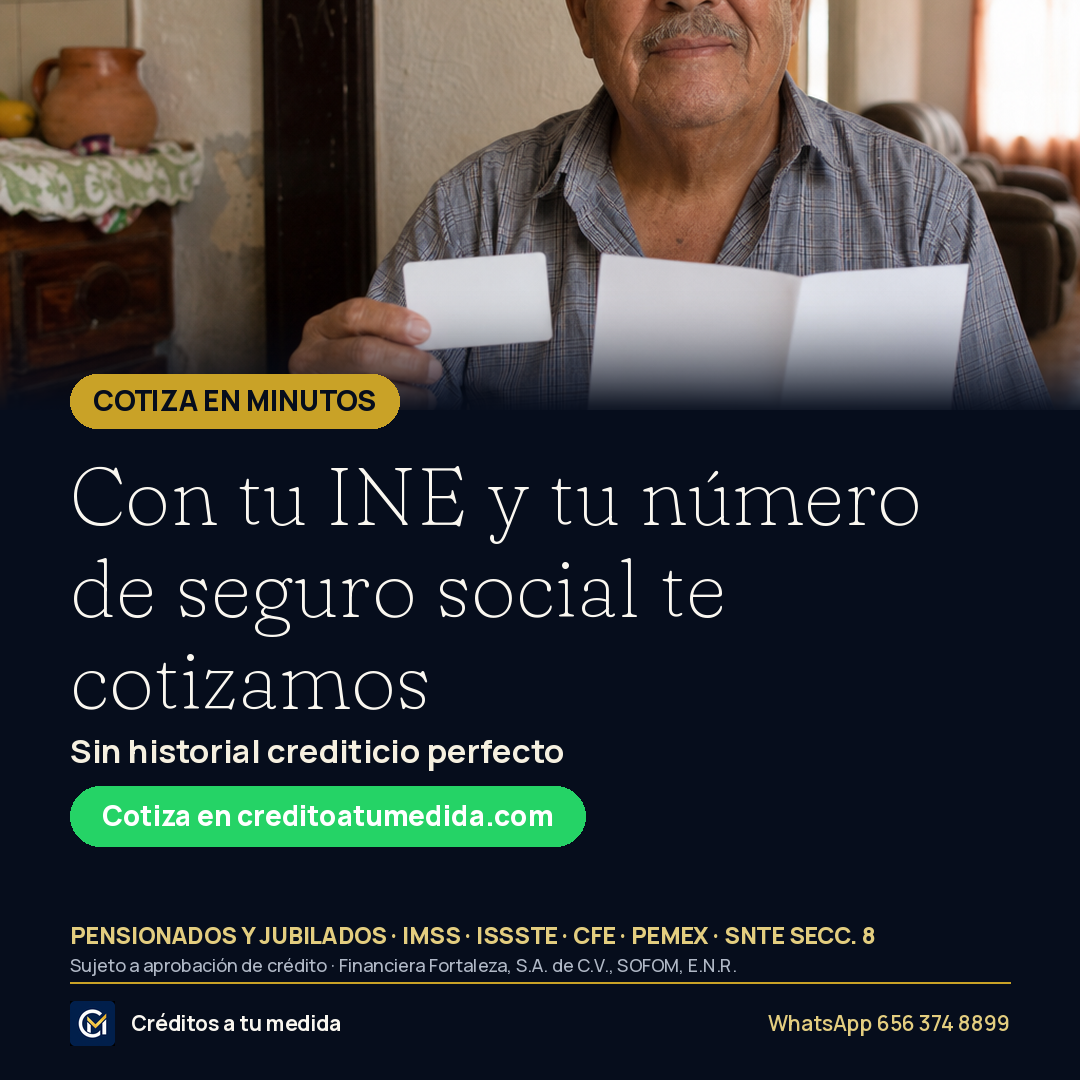
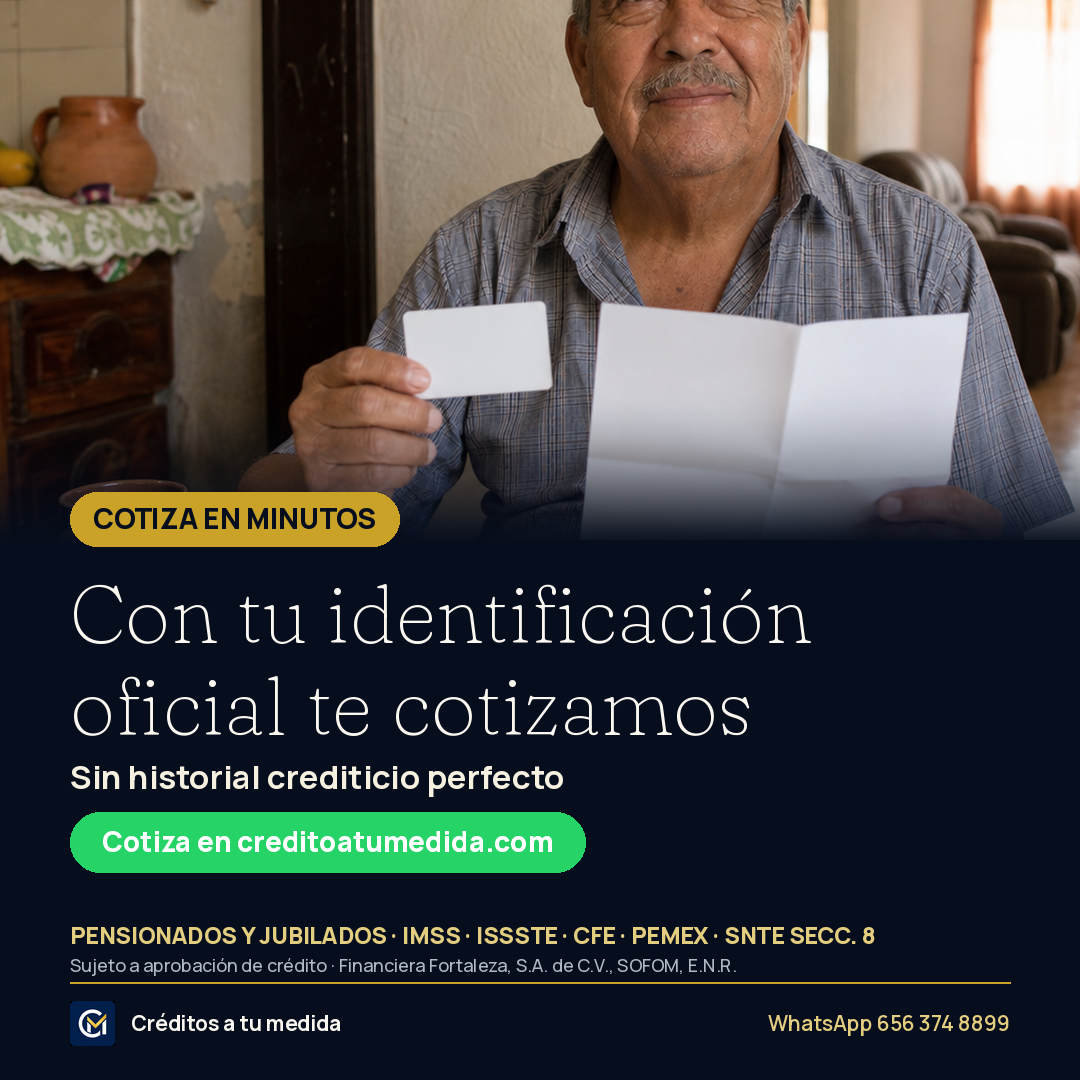
Créditos: copys sin INE/NSS ni 'te falta' (política Meta documentos/financieros); AD-02 regenerado

diff --git a/build_ads_2026.py b/build_ads_2026.py
@@ -12,7 +12,7 @@ PIEZAS = [
     # (archivo, foto, chip, titular, apoyo, cta)
     ("calentamiento", "calentamiento-album", "CRÉDITOS A TU MEDIDA", "Ya estamos en Facebook", "Pensionados y jubilados de Ciudad Juárez · Zona Pronaf", None),
     ("AD-01", "ad-pareja-dependencias", "PENSIONADOS Y JUBILADOS", "Crédito para pensionados y jubilados", "IMSS · ISSSTE · CFE · Pemex · SNTE Sección 8", "Solicita en creditoatumedida.com"),
-    ("AD-02", "ad-ine-nss", "COTIZA EN MINUTOS", "Con tu INE y tu número de seguro social te cotizamos", "Sin historial crediticio perfecto", "Cotiza en creditoatumedida.com"),
+    ("AD-02", "ad-ine-nss", "COTIZA EN MINUTOS", "Con tu identificación oficial te cotizamos", "Sin historial crediticio perfecto", "Cotiza en creditoatumedida.com"),
     ("AD-03", "ad-mismo-dia", "DEPÓSITO EL MISMO DÍA", "Solicita antes de las 3 pm y te depositamos hoy", "Si tus documentos están en orden", "Solicita en creditoatumedida.com"),
     ("AD-04", "ad-asesor-persona", "ATENCIÓN EN PERSONA", "Un asesor te explica todo antes de firmar", "Benjamín Franklin 3220 · Zona Pronaf · por la entrada de Subway", "Agenda en creditoatumedida.com"),
     ("AD-05", "ad-descuento-pension", "CRÉDITO VÍA NÓMINA", "Se descuenta directo de tu pensión", "Pagos fijos, sin ir al banco", "Conoce más en creditoatumedida.com"),
